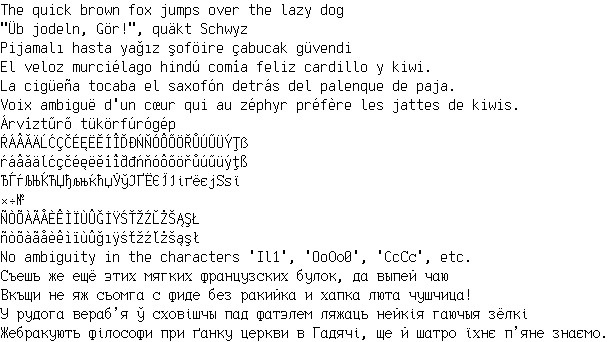
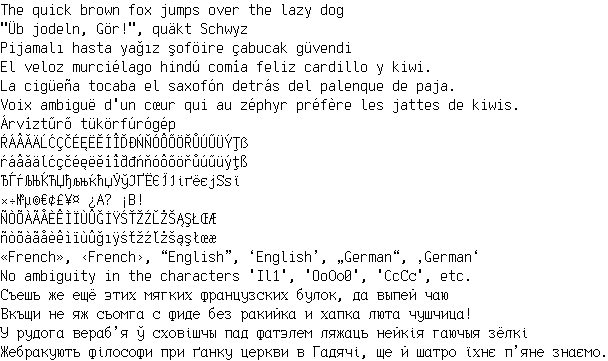
New codepoints

diff --git a/export.js b/export.js
@@ -106,15 +106,17 @@ writeFileSync('./Example.png', getImage([
     'ŔÁÂĂÄĹĆÇČÉĘËĚÍÎĎĐŃŇÓÔŐÖŘŮÚŰÜÝŢẞ',
     'ŕáâăäĺćçčéęëěíîďđńňóôőöřůúűüýţß',
     'ЂЃѓЉЊЌЋЏђљњќћџЎўЈҐЁЄЇІіґёєјЅѕї',
-    '×÷№',
-    'ÑÒÕÀÃÅÈÊÌÏÙÛĞİŸŚŤŽŹĽŻŠĄŞŁ',
-    'ñòõàãåèêìïùûğıÿśťžźľżšąşł',
+    '×÷№µ©€¢£¥¤ ¿A? ¡B!',
+    'ÑÒÕÀÃÅÈÊÌÏÙÛĞİŸŚŤŽŹĽŻŠĄŞŁŒÆ',
+    'ñòõàãåèêìïùûğıÿśťžźľżšąşłœæ',
+    '«French», ‹French›, “English”, ‘English’, „German“, ‚German‘',
     // TODO:
-    // '€‚„…†‡‰‹.‘’“”•–—™›ˇ˘',
-    // '¤¦§¨©«¬®°±˛´µ¶·¸»˝',
-    // '˙ƒˆ˜¡¢£¥ª¯º¼½¾¿',
-    // 'ÐØÞÆŒ',
-    // 'ðøþæœ',
+    // ʼ ´ ˝  –—  
+    // ⇧⌥⌃⌘
+    // '…†‡‰.•™ˇ˘',
+    // '¦§¨¬®°±˛¶·¸',
+    // '˙ƒˆ˜ª¯º¼½¾',
+    // 'ÐØÞ ðøþ',
     "No ambiguity in the characters 'Il1', 'OoОо0', 'CcСс', etc.",
     'Съешь же ещё этих мягких французских булок, да выпей чаю',
     'Вкъщи не яж сьомга с фиде без ракийка и хапка люта чушчица!',
